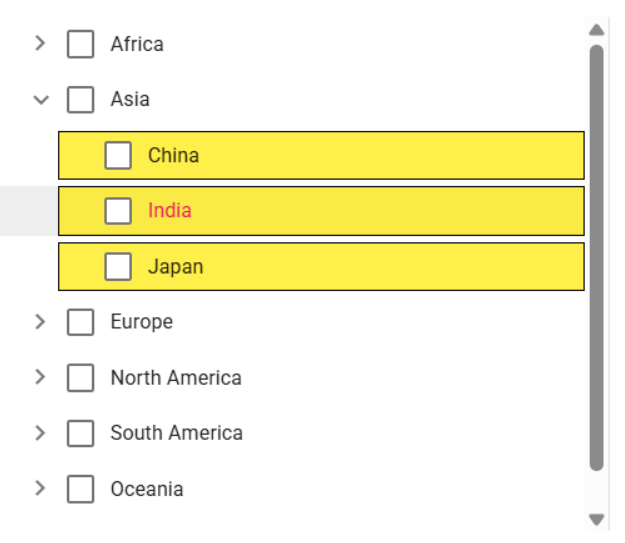
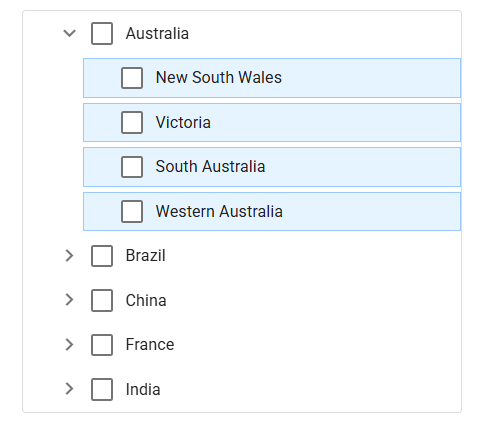
381964: Added style and appearance topic for treeview component

diff --git a/ej2-asp-core-mvc/treeview/style.md b/ej2-asp-core-mvc/treeview/style.md
@@ -74,8 +74,8 @@ Use the following CSS to customize the TreeView nodes based on levels.
 
 ```css
 .e-treeview .e-level-2 > .e-text-content { 
-        border: 1px solid black; 
-        background: #ffe800b5 !important;
+     background: #E6F4FF;
+     border: 1px solid #99C9FF;
 } 
 ```
 ![Customizing the TreeView nodes based on levels](./images/customize-based-on-level.png)
